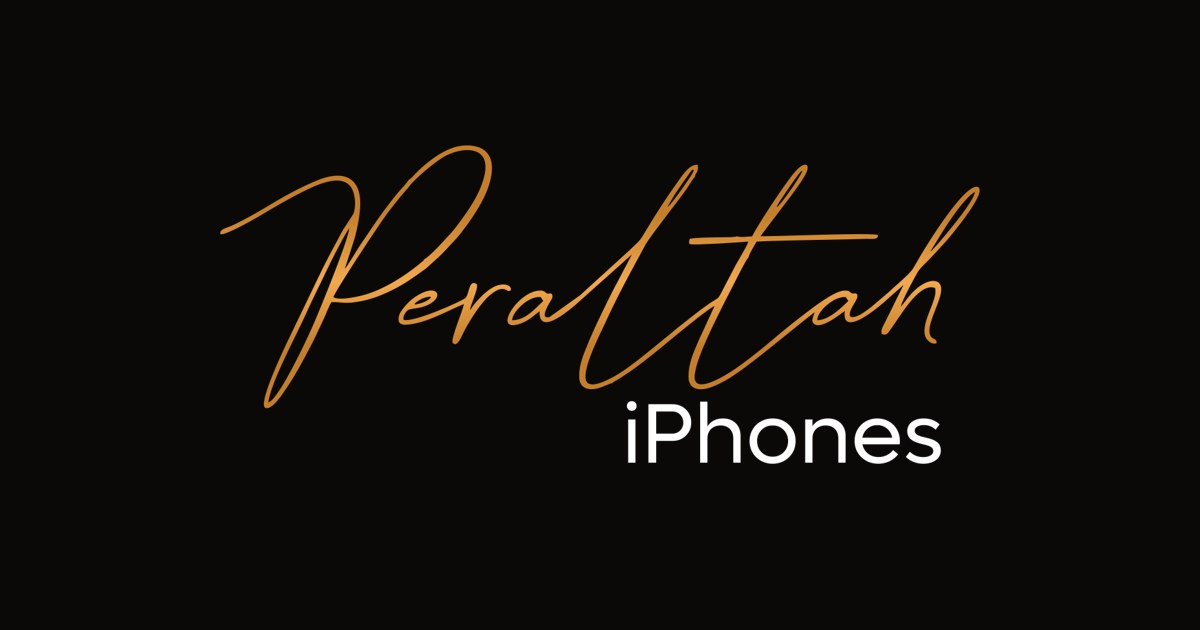
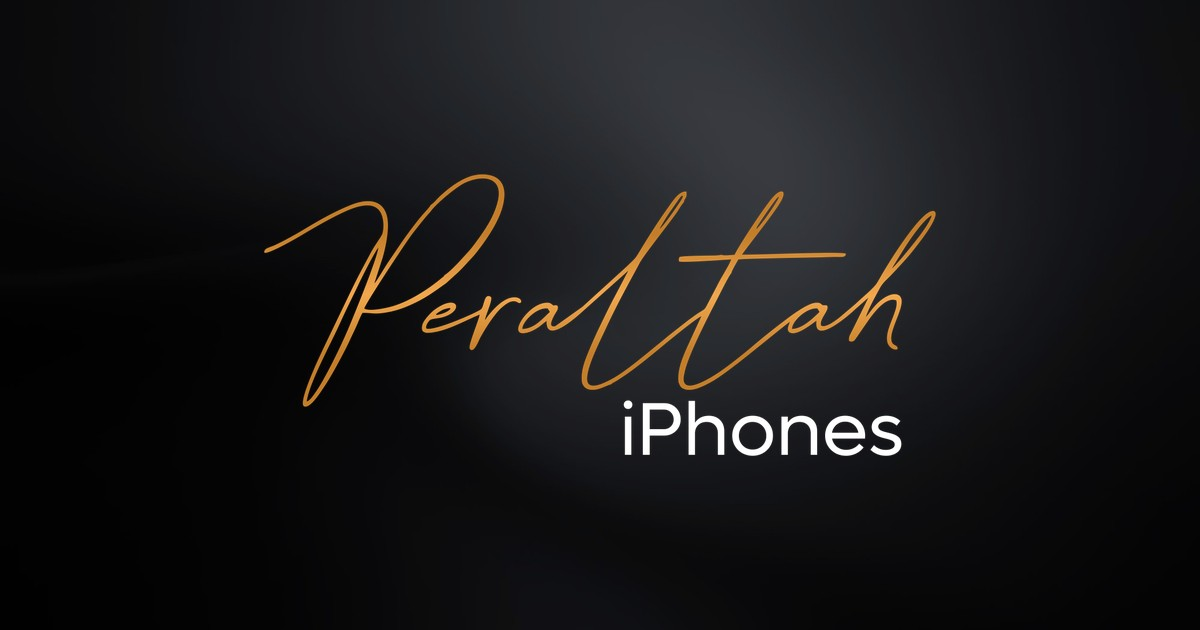
Textura no fundo das seções pretas e capa do link
- Remove o quadriculado da intro e do hero
- Textura escura com movimento lento no fundo da intro e das seções pretas
  (embutida no CSS, sem movimento para quem pede redução)
- Capa do link 1200x630 com o logo completo sobre fundo preto
- Meta tags Open Graph com URL absoluta preenchida no build
  (domínio do Vercel automático ou SITE_URL)

Claude-Session: https://claude.ai/code/session_01AbjRSNTtj8uLT5nydUfv64

diff --git a/src/index.css b/src/index.css
@@ -73,7 +73,19 @@ ul, ol { list-style: none; margin: 0; padding: 0; }
 
 /* ---------- seções preto/branco + costura dourada ---------- */
 .sec { position: relative; padding-block: var(--sec-y); isolation: isolate; }
-.sec--dark { background: var(--black); color: var(--white); }
+.sec--dark { background: var(--black); color: var(--white); overflow: clip; }
+/* textura escura com deriva lenta (camada própria, só transform) */
+.sec--dark::after, .intro__tex {
+  content: ''; position: absolute; inset: -8%; z-index: -2; pointer-events: none;
+  background: url('./assets/textura-escura.webp') center / cover no-repeat;
+  animation: texDrift 28s var(--ease-in-out) infinite alternate; will-change: transform;
+}
+.sec--dark:nth-of-type(even)::after { scale: -1 1; animation-duration: 34s; }
+@keyframes texDrift {
+  0% { transform: translate3d(-2%, -1.5%, 0) scale(1.02); }
+  50% { transform: translate3d(1.5%, 1%, 0) scale(1.06); }
+  100% { transform: translate3d(2.5%, -1%, 0) scale(1.03); }
+}
 .sec--light { background: var(--white); color: var(--ink); }
 /* elemento memorável: o traço dourado do logo atravessando cada costura */
 .sec + .sec::before {
@@ -209,9 +221,6 @@ ul, ol { list-style: none; margin: 0; padding: 0; }
 .hero__glow { position: absolute; inset: -20% -10% auto auto; width: 70vw; height: 70vw; max-width: 980px; max-height: 980px; z-index: -1;
   background: radial-gradient(closest-side, rgba(240, 169, 78, 0.22), rgba(196, 128, 43, 0.08) 45%, transparent 70%); animation: breathe 14s var(--ease-in-out) infinite alternate; }
 @keyframes breathe { from { transform: translate3d(0, 0, 0) scale(1); } to { transform: translate3d(-4%, 6%, 0) scale(1.08); } }
-.hero__grid-lines { position: absolute; inset: 0; z-index: -1; opacity: 0.5;
-  background-image: linear-gradient(var(--line-dark) 1px, transparent 1px), linear-gradient(90deg, var(--line-dark) 1px, transparent 1px);
-  background-size: 96px 96px; -webkit-mask-image: radial-gradient(ellipse at 70% 30%, #000 0%, transparent 65%); mask-image: radial-gradient(ellipse at 70% 30%, #000 0%, transparent 65%); }
 .hero__inner { display: grid; grid-template-columns: minmax(0, 1.08fr) minmax(0, 0.92fr); gap: clamp(32px, 5vw, 80px); align-items: stretch; }
 .hero__ctas { display: flex; flex-wrap: wrap; gap: 12px; margin-top: 36px; }
 .hero__facts { display: flex; gap: clamp(20px, 3vw, 40px); margin-top: 48px; padding-top: 26px; border-top: 1px solid var(--line-dark); }
@@ -529,6 +538,7 @@ ul, ol { list-style: none; margin: 0; padding: 0; }
 
 /* ---------- movimento reduzido: menos e mais suave, não zero ---------- */
 @media (prefers-reduced-motion: reduce) {
+  .sec--dark::after, .intro__tex { animation: none; }
   .btn:hover, .btn-arrow:hover, .cat__cta:hover, .foot__nav a:hover { transform: none !important; }
   html { scroll-behavior: auto; }
   .rv, .rv--up, .rv--photo, .rv--photo > img, .rv--photo > video { transform: none !important; clip-path: none !important; transition: opacity 0.4s ease !important; }
@@ -547,12 +557,9 @@ ul, ol { list-style: none; margin: 0; padding: 0; }
 /* =========================================================
    INTRO — assinatura escrita → maçã → página
    ========================================================= */
-.intro { position: fixed; inset: 0; z-index: 200; background: var(--black); display: grid; place-items: center; overflow: hidden;
+.intro { position: fixed; inset: 0; z-index: 200; background: var(--black); isolation: isolate; display: grid; place-items: center; overflow: hidden;
   clip-path: circle(150% at 50% 50%); transition: clip-path 0.65s var(--ease-in-out), opacity 0.65s ease; cursor: pointer; }
 .intro.is-leaving { clip-path: circle(0% at 50% 50%); opacity: 0.4; pointer-events: none; }
-.intro__grid { position: absolute; inset: 0; opacity: 0; animation: introFade 0.6s ease 0.05s forwards;
-  background-image: linear-gradient(var(--line-dark) 1px, transparent 1px), linear-gradient(90deg, var(--line-dark) 1px, transparent 1px);
-  background-size: 72px 72px; -webkit-mask-image: radial-gradient(ellipse at center, #000 0%, transparent 62%); mask-image: radial-gradient(ellipse at center, #000 0%, transparent 62%); }
 .intro__scan { position: absolute; left: 0; right: 0; top: 50%; height: 1px; opacity: 0;
   background: linear-gradient(90deg, transparent, rgba(240, 169, 78, 0.7), transparent); animation: introScan 1.8s var(--ease-in-out) 0.1s forwards; }
 .intro__stage { position: relative; width: min(560px, 76vw); aspect-ratio: 1176 / 408; display: grid; place-items: center; }

diff --git a/index.html b/index.html
@@ -8,10 +8,18 @@
     <meta name="theme-color" content="#0a0908" />
     <meta property="og:type" content="website" />
     <meta property="og:locale" content="pt_BR" />
+    <meta property="og:site_name" content="Peraltah iPhones" />
+    <meta property="og:url" content="%SITE_URL%/" />
     <meta property="og:title" content="Peraltah iPhones | iPhones e Tecnologia em Mato Grosso do Sul" />
     <meta property="og:description" content="iPhones, ecossistema Apple e tecnologia em três lojas em Dourados e Maracaju. Fale com a equipe pelo WhatsApp." />
-    <meta property="og:image" content="./og.jpg" />
+    <meta property="og:image" content="%SITE_URL%/og.jpg?v=2" />
+    <meta property="og:image:secure_url" content="%SITE_URL%/og.jpg?v=2" />
+    <meta property="og:image:type" content="image/jpeg" />
+    <meta property="og:image:width" content="1200" />
+    <meta property="og:image:height" content="630" />
+    <meta property="og:image:alt" content="Logo Peraltah iPhones sobre fundo preto" />
     <meta name="twitter:card" content="summary_large_image" />
+    <meta name="twitter:image" content="%SITE_URL%/og.jpg?v=2" />
     <link rel="icon" type="image/png" href="./favicon.png" />
     <link rel="apple-touch-icon" href="./apple-touch-icon.png" />
     <link rel="preconnect" href="https://fonts.googleapis.com" />

diff --git a/vite.config.ts b/vite.config.ts
@@ -1,7 +1,24 @@
 import react from '@vitejs/plugin-react'
-import { defineConfig } from 'vite'
+import { defineConfig, type Plugin } from 'vite'
+
+// WhatsApp e redes sociais só mostram a capa com URL absoluta.
+// No Vercel o domínio de produção vem de VERCEL_PROJECT_PRODUCTION_URL;
+// para um domínio próprio, defina SITE_URL (ex.: https://www.peraltahiphones.com.br).
+const siteUrl = (
+  process.env.SITE_URL ||
+  (process.env.VERCEL_PROJECT_PRODUCTION_URL && `https://${process.env.VERCEL_PROJECT_PRODUCTION_URL}`) ||
+  (process.env.VERCEL_URL && `https://${process.env.VERCEL_URL}`) ||
+  ''
+).replace(/\/$/, '')
+
+const socialMeta = (): Plugin => ({
+  name: 'social-meta',
+  transformIndexHtml: (html) => html.replaceAll('%SITE_URL%', siteUrl || '.'),
+})
 
 export default defineConfig({
   base: './',
-  plugins: [react()],
+  plugins: [react(), socialMeta()],
+  // a textura de fundo (10KB) vai embutida no CSS, sem requisição extra
+  build: { assetsInlineLimit: 16384 },
 })

diff --git a/src/components/Intro.tsx b/src/components/Intro.tsx
@@ -43,7 +43,7 @@ export function Intro() {
   if (phase === 'done') return null
   return (
     <div className={`intro ${phase === 'leave' ? 'is-leaving' : ''}`} role="presentation" onClick={() => setPhase('leave')}>
-      <div className="intro__grid" aria-hidden />
+      <div className="intro__tex" aria-hidden />
       <div className="intro__scan" aria-hidden />
       <div className="intro__stage" aria-hidden>
         <div className="intro__sign">

diff --git a/src/components/Sections.tsx b/src/components/Sections.tsx
@@ -69,7 +69,6 @@ export function Hero() {
   return (
     <section id="inicio" className="sec sec--dark hero" aria-labelledby="hero-title">
       <div className="hero__glow" aria-hidden />
-      <div className="hero__grid-lines" aria-hidden />
       <div className="wrap hero__inner">
         <div className="hero__copy">
           <Reveal variant="fade" className="eyebrow eyebrow--gold">Peraltah iPhones · Dourados e Maracaju</Reveal>

diff --git a/README.md b/README.md
@@ -24,3 +24,11 @@ No Vercel: framework **Vite**, build `npm run build`, saída `dist`.
 - **Cores, tipografia e animações:** variáveis no topo de `src/index.css`.
 - **Intro (assinatura → maçã):** `src/components/Intro.tsx`. Toca uma vez por sessão,
   pode ser pulada e não aparece para quem ativa a redução de movimento.
+
+## Capa do link (WhatsApp, Instagram, Facebook)
+
+A capa é `public/og.jpg` (1200×630, logo completo sobre fundo preto).
+O endereço completo da imagem é preenchido no build: no Vercel ele usa o domínio de
+produção automaticamente. Ao conectar um domínio próprio, crie a variável de ambiente
+`SITE_URL` no Vercel (ex.: `https://www.peraltahiphones.com.br`) e faça um novo deploy.
+Se trocar a imagem, mude o `?v=2` em `index.html` para o WhatsApp buscar a nova.
